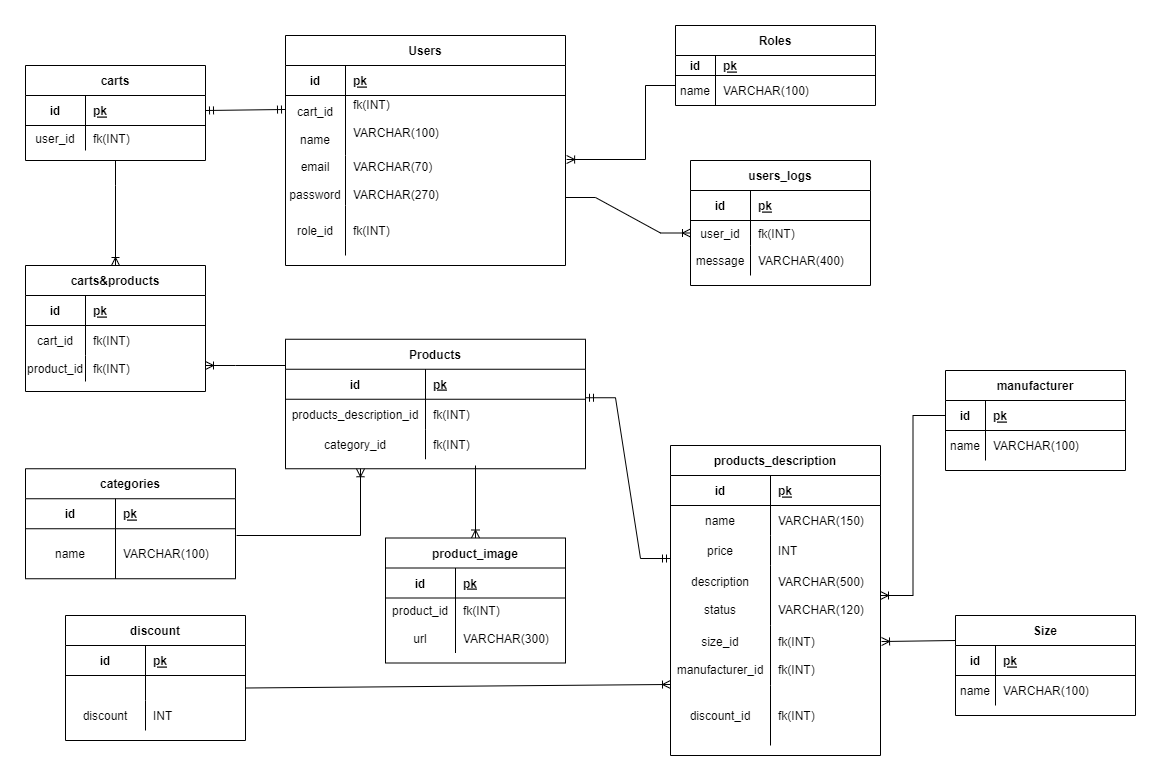
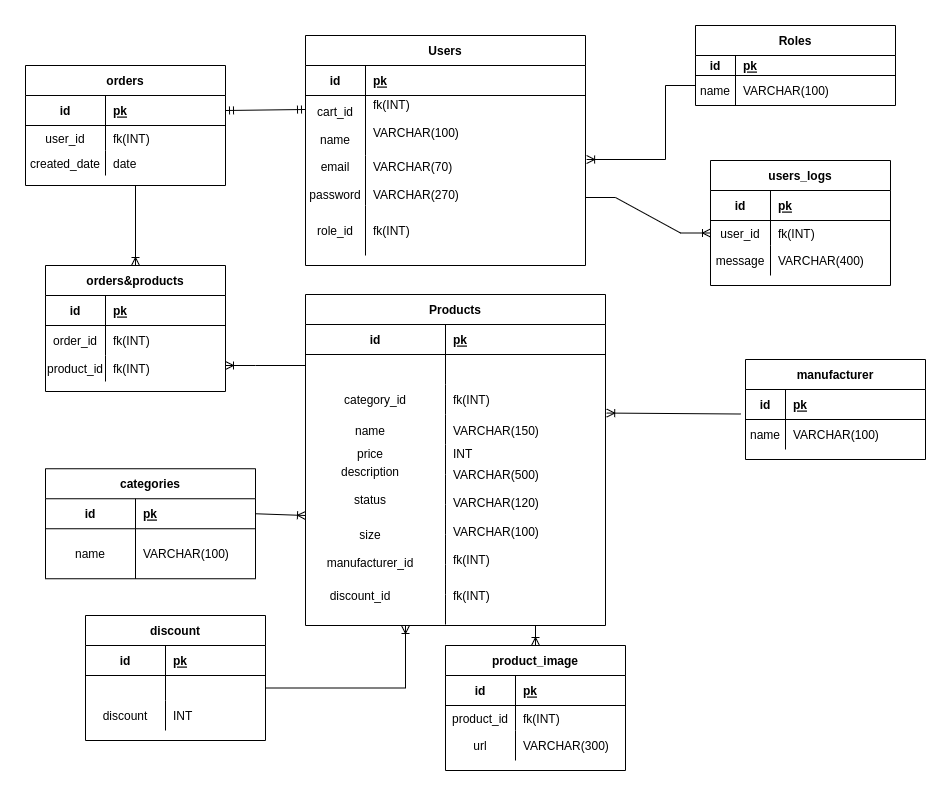
changed lab1

diff --git a/tables.md b/tables.md
@@ -29,19 +29,12 @@
 |имя поля | тип | ограничения | описание |
 |:---:|:---:|:---:|:---:|
 | id | pk(INT) | auto increment; not null; unique | первичный ключ |
-| products_descs_id | fk(INT) | not null | описание товара |
 | category_id | fk(INT) | not null | категория |
-
-
-## products_description (Описания товаров)
-|имя поля | тип | ограничения | описание |
-|:---:|:---:|:---:|:---:|
-| id | pk(INT) | auto increment; not null; unique | первичный ключ |
 | name | VARCHAR(150) | not null | название товара |
 | price | INT | not null | цена товара |
 | description | VARCHAR(1000) | not null | описание товара |
-| status | VARCHAR(120) | not null; default(moderation) | статус товара|
-| size_id | fk(INT) | not null | размер |
+| status | VARCHAR(120) | not null; default(moderation) | статус товара |
+| size| VARCHAR(100) | not null | размер |
 | manufacturer_id | fk(INT) | not null | производитель |
 | discount_id | fk(INT) | not null | скидка |
 
@@ -53,13 +46,6 @@
 | name | VARCHAR(100) | not null | Название категории |
 
 
-## size (Размер)
-|имя поля | тип | ограничения | описание |
-|:---:|:---:|:---:|:---:|
-| id | pk(INT) | auto increment; not null; unique | первичный ключ |
-| name | VARCHAR(100) | not null | Размер|
-
-
 ## manufacturer (Производитель)
 |имя поля | тип | ограничения | описание |
 |:---:|:---:|:---:|:---:|
@@ -67,11 +53,12 @@
 | name | VARCHAR(100) | not null | Производитель|
 
 
-## carts (корзина)
+## orders (Заказы)
 |имя поля | тип | ограничения | описание |
 |:---:|:---:|:---:|:---:|
 | id | pk(INT) | auto increment; not null; unique | первичный ключ |
 | user_id | fk(INT) | not null; unique | пользователь |
+| created_date | date | not null | время |
 
 
 ## product_image (Фото товара)
@@ -82,21 +69,21 @@
 | url | VARCHAR(300) | not null | путь к фото |
 
 
-## Скидка (discount)
+## discount (Скидка)
 |имя поля | тип | ограничения | описание |
 |:---:|:---:|:---:|:---:|
 | id | pk(INT)) | auto increment; not null; unique | первичный ключ |
 | discount | INT | not null | скидка |
 
 
-## Корзина и товар (carts&products)
+## orders&products (Заказы и продукты)
 |имя поля | тип | ограничения | описание |
 |:---:|:---:|:---:|:---:|
 | id | pk(INT) | auto increment; not null; unique | первичный ключ |
-| cart_id | fk(INT) | not null | корзина пользователя |
+| order_id | fk(INT) | not null | номер заказа |
 | product_id | fk(INT) | not null | товар |
 
 
 Связи многие ко многим для которых были созданы промежуточные таблицы:
 
-1.В корзине может быть несколько товаров, товары могут лежать в разных корзинах
+1.В заказе может быть несколько товаров, товары могут содержаться в разных заказах

diff --git a/TT.md b/TT.md
@@ -4,15 +4,13 @@
 
 - Роли
 - Пользователи
-- Корзина
+- Заказ
 - Товар
-- Описание товара
 - Картинки товара
 - Производитель
-- Размер
 - Категории
 - Скидка
-- Корзина и товар
+- Заказ и товар
 - Логи
 
 ## Функциональные требования
